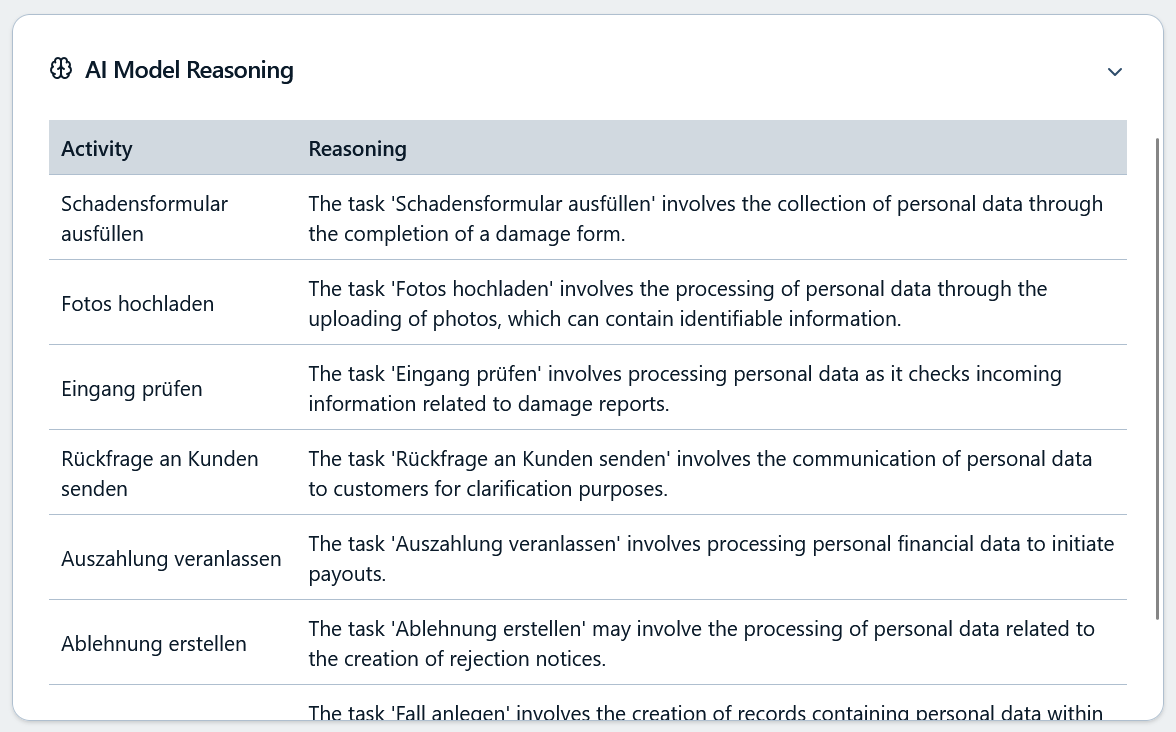
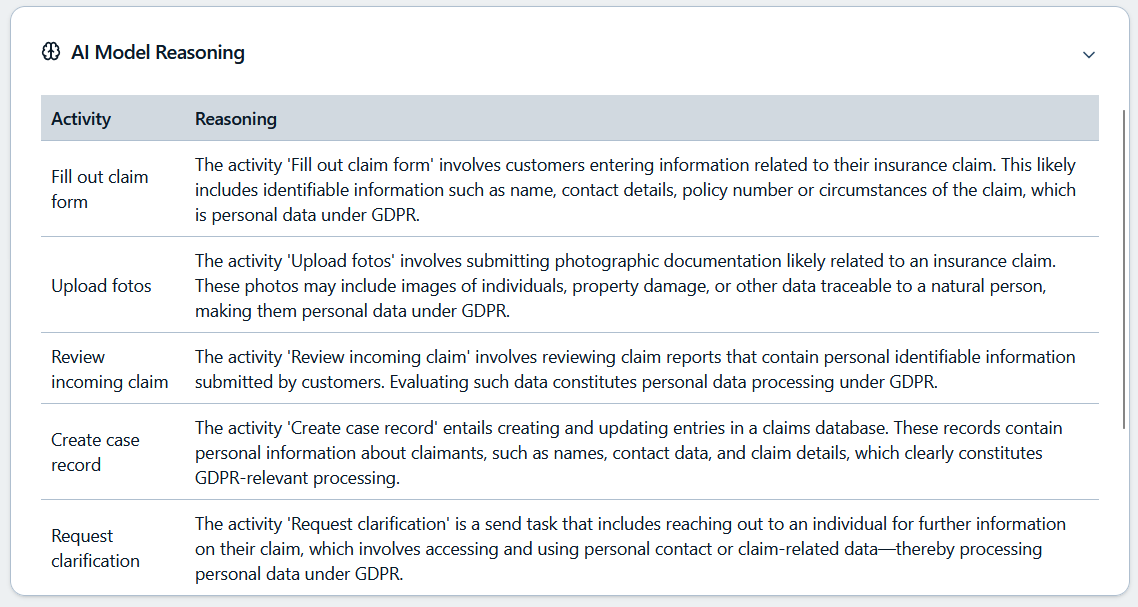
Implement feedback for webapp sandbox section

Changed region(s): [[0.0308, 0.0297, 1.0, 1.0], [0.0, 0.0, 0.9842, 0.0297], [0.0308, 0.0593, 0.246, 0.1186]]

diff --git a/thesis/de/chapters/4-klassifizierungsalgorithmus/frontend.tex b/thesis/de/chapters/4-klassifizierungsalgorithmus/frontend.tex
@@ -1,23 +1,29 @@
 \section{Webapp-Sandbox}\label{sec:nutzung-uber-webapp}
 
-Zur interaktiven Nutzung der Klassifizierung wurde eine \emph{Sandbox} in Form einer Webapp entwickelt. Sie verbindet einen vollwertigen \ac{BPMN}-Editor auf Basis von \texttt{BPMN.js} \cite{bpmn-js} mit der in Kapitel~\ref{sec:api-design} beschriebenen HTTP-Schnittstelle und macht die Analyse damit intuitiv bedienbar. In der Sandbox können \ac{BPMN}-Modelle erstellt, verändert, exportiert und importiert sowie auf Datenschutzrelevanz analysiert werden. Als kritisch klassifizierte Aktivitäten werden nach der Analyse direkt im Editor farblich hervorgehoben, wie in Abbildung \ref{fig:sandbox-frontend-analyzed-model} zu sehen ist.
+Zur interaktiven Nutzung der Klassifizierung wurde eine \emph{Sandbox} in Form einer Webapp entwickelt. Sie verbindet einen vollwertigen \ac{BPMN}-Editor auf Basis von \texttt{BPMN.js} \cite{bpmn-js} mit der in Kapitel~\ref{sec:api-design} beschriebenen HTTP-Schnittstelle und macht die Analyse damit intuitiv bedienbar. In der Sandbox können \ac{BPMN}-Modelle erstellt, verändert, exportiert und importiert, sowie auf Datenschutzrelevanz analysiert werden. Als kritisch klassifizierte Aktivitäten werden nach der Analyse direkt im Editor farblich hervorgehoben, wie in Abbildung \ref{fig:sandbox-frontend-analyzed-model} zu sehen ist.
 
-\begin{figure}
+\begin{figure}[h]
     \centering
-    \includegraphics[width=\linewidth]{images/sandbox/sandbox-analyzed-model}
+    \includegraphics[width=\linewidth]{images/sandbox/sandbox-analyzed-model-annotated}
     \caption{Sandbox im Frontend mit hervorgehobenen kritischen Aktivitäten nach Analyse.}
     \label{fig:sandbox-frontend-analyzed-model}
 \end{figure}
 
-Außerdem können die vom \ac{LLM} generierten Begründungen zu jeder als kritisch erkannten Aktivität im Editor eingesehen werden. Diese Erläuterungen werden gesammelt in einer aufklappbaren Karte im unteren Bereich des Editors angezeigt, siehe Abbildung \ref{fig:sandbox-frontend-ai-reasoning}.
+Die Webapp richtet sich primär an (i) Forschende und Studierende, die die Klassifizierungspipeline explorativ testen möchten, (ii) Praktiker aus \ac{BPM} und Datenschutz (z.\,B. Prozessverantwortliche), die ein niedrigschwelliges Risiko-Screening einzelner Modelle benötigen, sowie (iii) interessierte Dritte, die die in dieser Arbeit beschriebenen Ergebnisse reproduzieren möchten. Die Webapp schließt die Lücke zwischen der reinen API und typischen Modellierungswerkzeugen. Sie erlaubt ein Prototyping direkt am Prozessmodell, vermeidet lokale Installationshürden und dient als leichtgewichtige Demonstrationsoberfläche für Live-Analysen und Modellvergleiche.
 
-\textcolor{orange}{// TODO Die Sprache der Begründungen des LLM irgendwo thematisieren oder noch anpassen. Aktuell ist die Sprache der Begründungen immer Englisch. Vielleicht ändere ich das auf Deutsch ab, da die Mastrarbeit auf Deutsch ist oder ich passe den Code so an, dass die Begründung in der gleichen Sprache wie das Modell ist.}
+Die in Abbildung~\ref{fig:sandbox-frontend-analyzed-model} markierten Bereiche strukturieren die Bedienoberfläche:
 
-\begin{figure}
+\begin{enumerate}
+    \item \textbf{BPMN-Editor} (linke Hauptfläche): Vollwertiger Editor zum Modellieren, Importieren und Exportieren von \ac{BPMN}-Prozessen. Nach einer Analyse werden als kritisch eingestufte Aktivitäten unmittelbar im Diagramm farblich markiert.
+    \item \textbf{Analyse-Panel} (rechte Seitenleiste): Konfiguration der \ac{LLM}-Eigenschaften und Start der Analyse. Neben Modell, Basis-URL und API-Schlüssel können u.\,a. Seed, \texttt{temperature} und \texttt{topP} gesetzt werden. Diese Parameter sind identisch zu den in Kapitel \ref{sec:api-design} beschriebenen \texttt{llmProps} und werden beim Starten der Analyse in die API-Anfrage überführt. Über Schaltflächen lassen sich die Ergebnisse als JSON herunterladen oder vorherige Markierungen löschen.
+    \item \textbf{\ac{LLM}-Begründungen} (untere, aufklappbare Karte): Begründungen des \ac{LLM} zu jeder als kritisch erkannten Aktivität. Die Karte kann ein- und ausgeklappt werden. Eine geöffnete Ansicht ist in Abbildung~\ref{fig:sandbox-frontend-ai-reasoning} dargestellt.
+\end{enumerate}
+
+\begin{figure}[h]
     \centering
-    \includegraphics[width=\linewidth]{images/sandbox/sandbox-ai-reasoning}
-    \caption{Exemplarische Begürundungen der Klassifikation durch das LLM in der Sandbox.}
+    \includegraphics[width=.92\linewidth]{images/sandbox/sandbox-ai-reasoning}
+    \caption{Exemplarische Begürundungen der Klassifikation durch das LLM.}
     \label{fig:sandbox-frontend-ai-reasoning}
 \end{figure}
 
-Um verschiedene \acp{LLM} vergleichen zu können, verfügt die Sandbox auf der rechten Seite über ein Einstellungsmenü mit konfigurierbaren \ac{LLM}-Parametern (siehe Abbildung \ref{fig:sandbox-frontend-analyzed-model}). Diese Parameter sind identisch zu den in Kapitel \ref{sec:api-design} beschriebenen \texttt{llmProps} und werden beim Starten der Analyse in die API-Anfrage überführt.
+Obwohl diese Arbeit auf Deutsch verfasst ist, verwendet die Webapp in der Benutzeroberfläche Englisch. Ebenso ist das \ac{LLM} in der Klassifikationspipeline über den System-Prompt auf Englisch eingestellt, sodass die generierten Antworten ebenfalls auf Englisch sind. Dies erhöht die Wiederverwendbarkeit für eine internationale Nutzerschaft. Die \ac{BPMN}-Modelle selbst können hingegen sowohl auf Deutsch als auch auf Englisch modelliert und analysiert werden.

diff --git a/thesis/de/chapters/sources/sources.tex b/thesis/de/chapters/sources/sources.tex
@@ -24,7 +24,7 @@ When assessing an activity, consider synonyms or domain-specific terms: activiti
 
 Do **not** classify an activity as GDPR-relevant when it only performs administrative or logistic tasks that do not involve personal data. Examples include picking or packing goods, routing vehicles without using specific addresses, printing generic pick lists, moving items in inventory, or checking if a document exists without viewing its contents. Likewise, activities using truly aggregated or irreversibly anonymised data can be ignored if no individual can be reidentified.
 
-In your output, return only the IDs of activities you classify as GDPR-relevant. For each, provide a clear explanation using the activity's name and description to justify why it processes personal data. Do not reference element IDs in your explanation; use the activity names instead. Exclude from your result any activities that do not process personal data and any elements that are not activity/task elements.
+In your output, return only the IDs of activities you classify as GDPR‑relevant. For each, provide a clear explanation in englisch using the activity’s name and description to justify why it processes personal data. Do not reference element IDs in your explanation; use the activity names instead. Exclude from your result any activities that do not process personal data and any elements that are not activity/task elements.
 \end{lstlisting}
 
 \begin{lstlisting}[language=Kotlin,caption={Antworttyp fuer die Klassifizierung},label={lst:bpmn-analysis-result}]

diff --git a/thesis/de/chapters.tex b/thesis/de/chapters.tex
@@ -1,6 +1,6 @@
 \textcolor{orange}{// TODO Überall nach einheitlichen Begriffsnutzungen schauen (Modell, Prozessmodell, LLMs. BPMN-Prozess, BPMN-Modell, Labels, Annotationen, Evaluation, Exepriment )}
 
-\textcolor{orange}{// TODO Sprache in Bildern/der App und Diagrammen einheitlich anpassen. Entweder es soll alles au Englisch sein oder auf Deutsch genau wie der Text.}
+\textcolor{orange}{// TODO Sprache in Bildern/der App und Diagrammen einheitlich anpassen. Entweder es soll alles au Englisch sein oder auf Deutsch genau wie der Text. Außerdem: Labels immer mit Punkt beenden oder nicht? Auf jeden Falll einheitlich gestalten}
 
 \textcolor{orange}{// TODO Recall, Precision und F1-Score und Accuracy überall einheitlich entweder auf Englisch oder Deutsch.}
 
